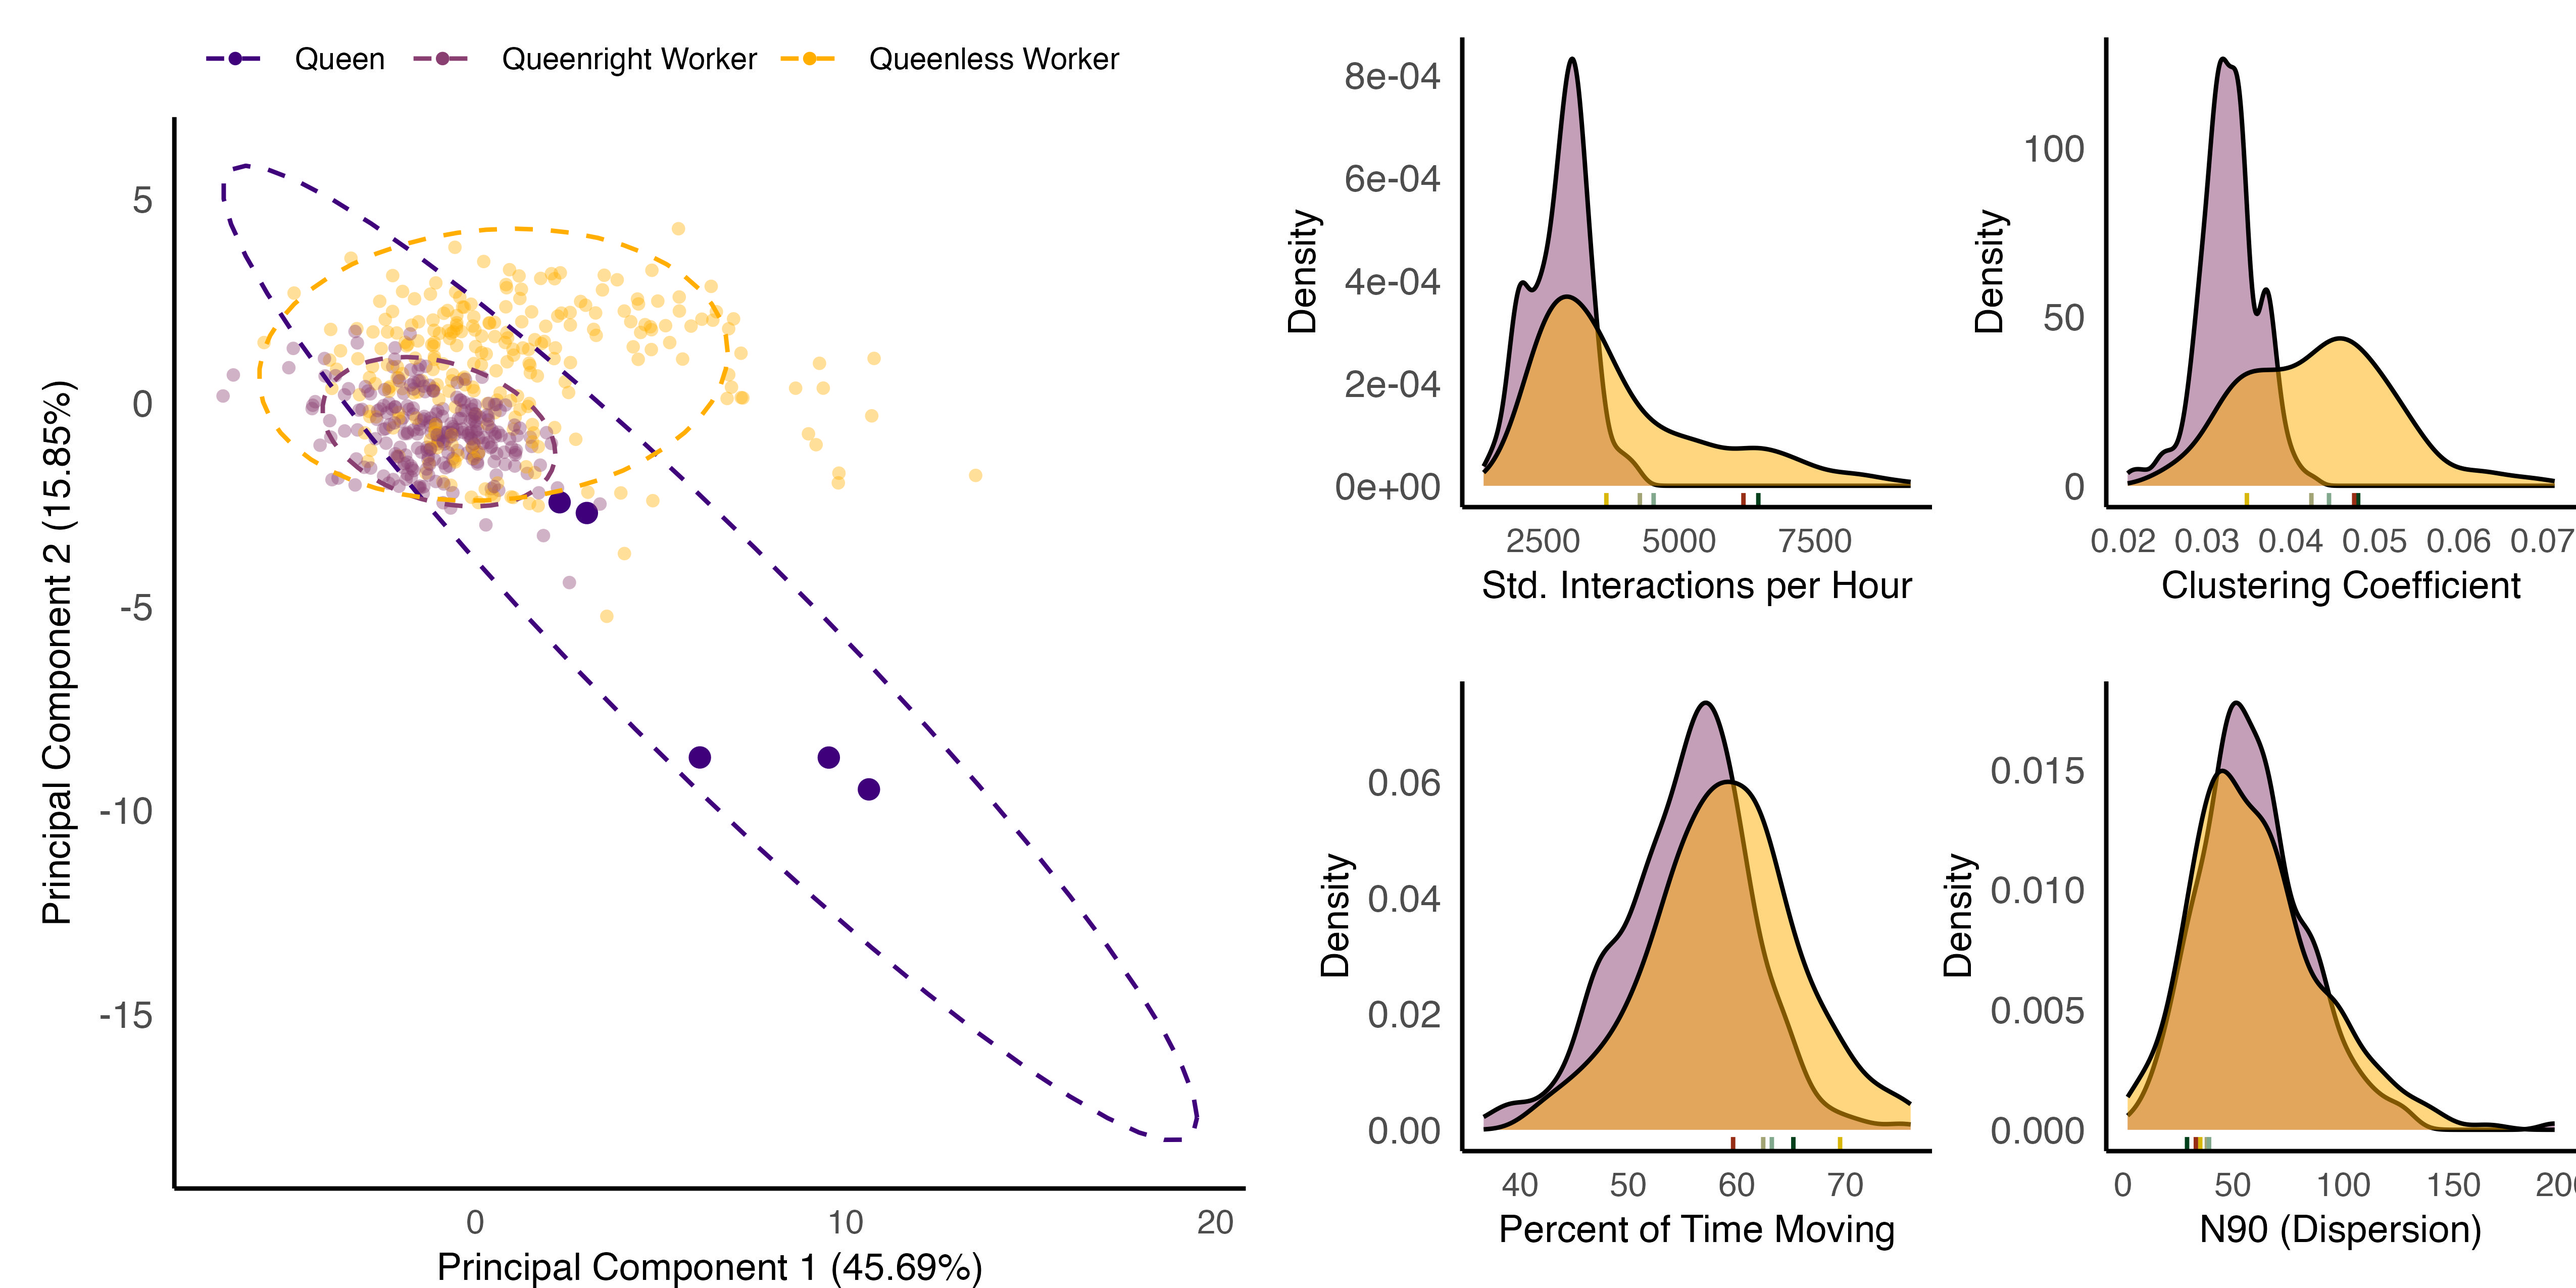
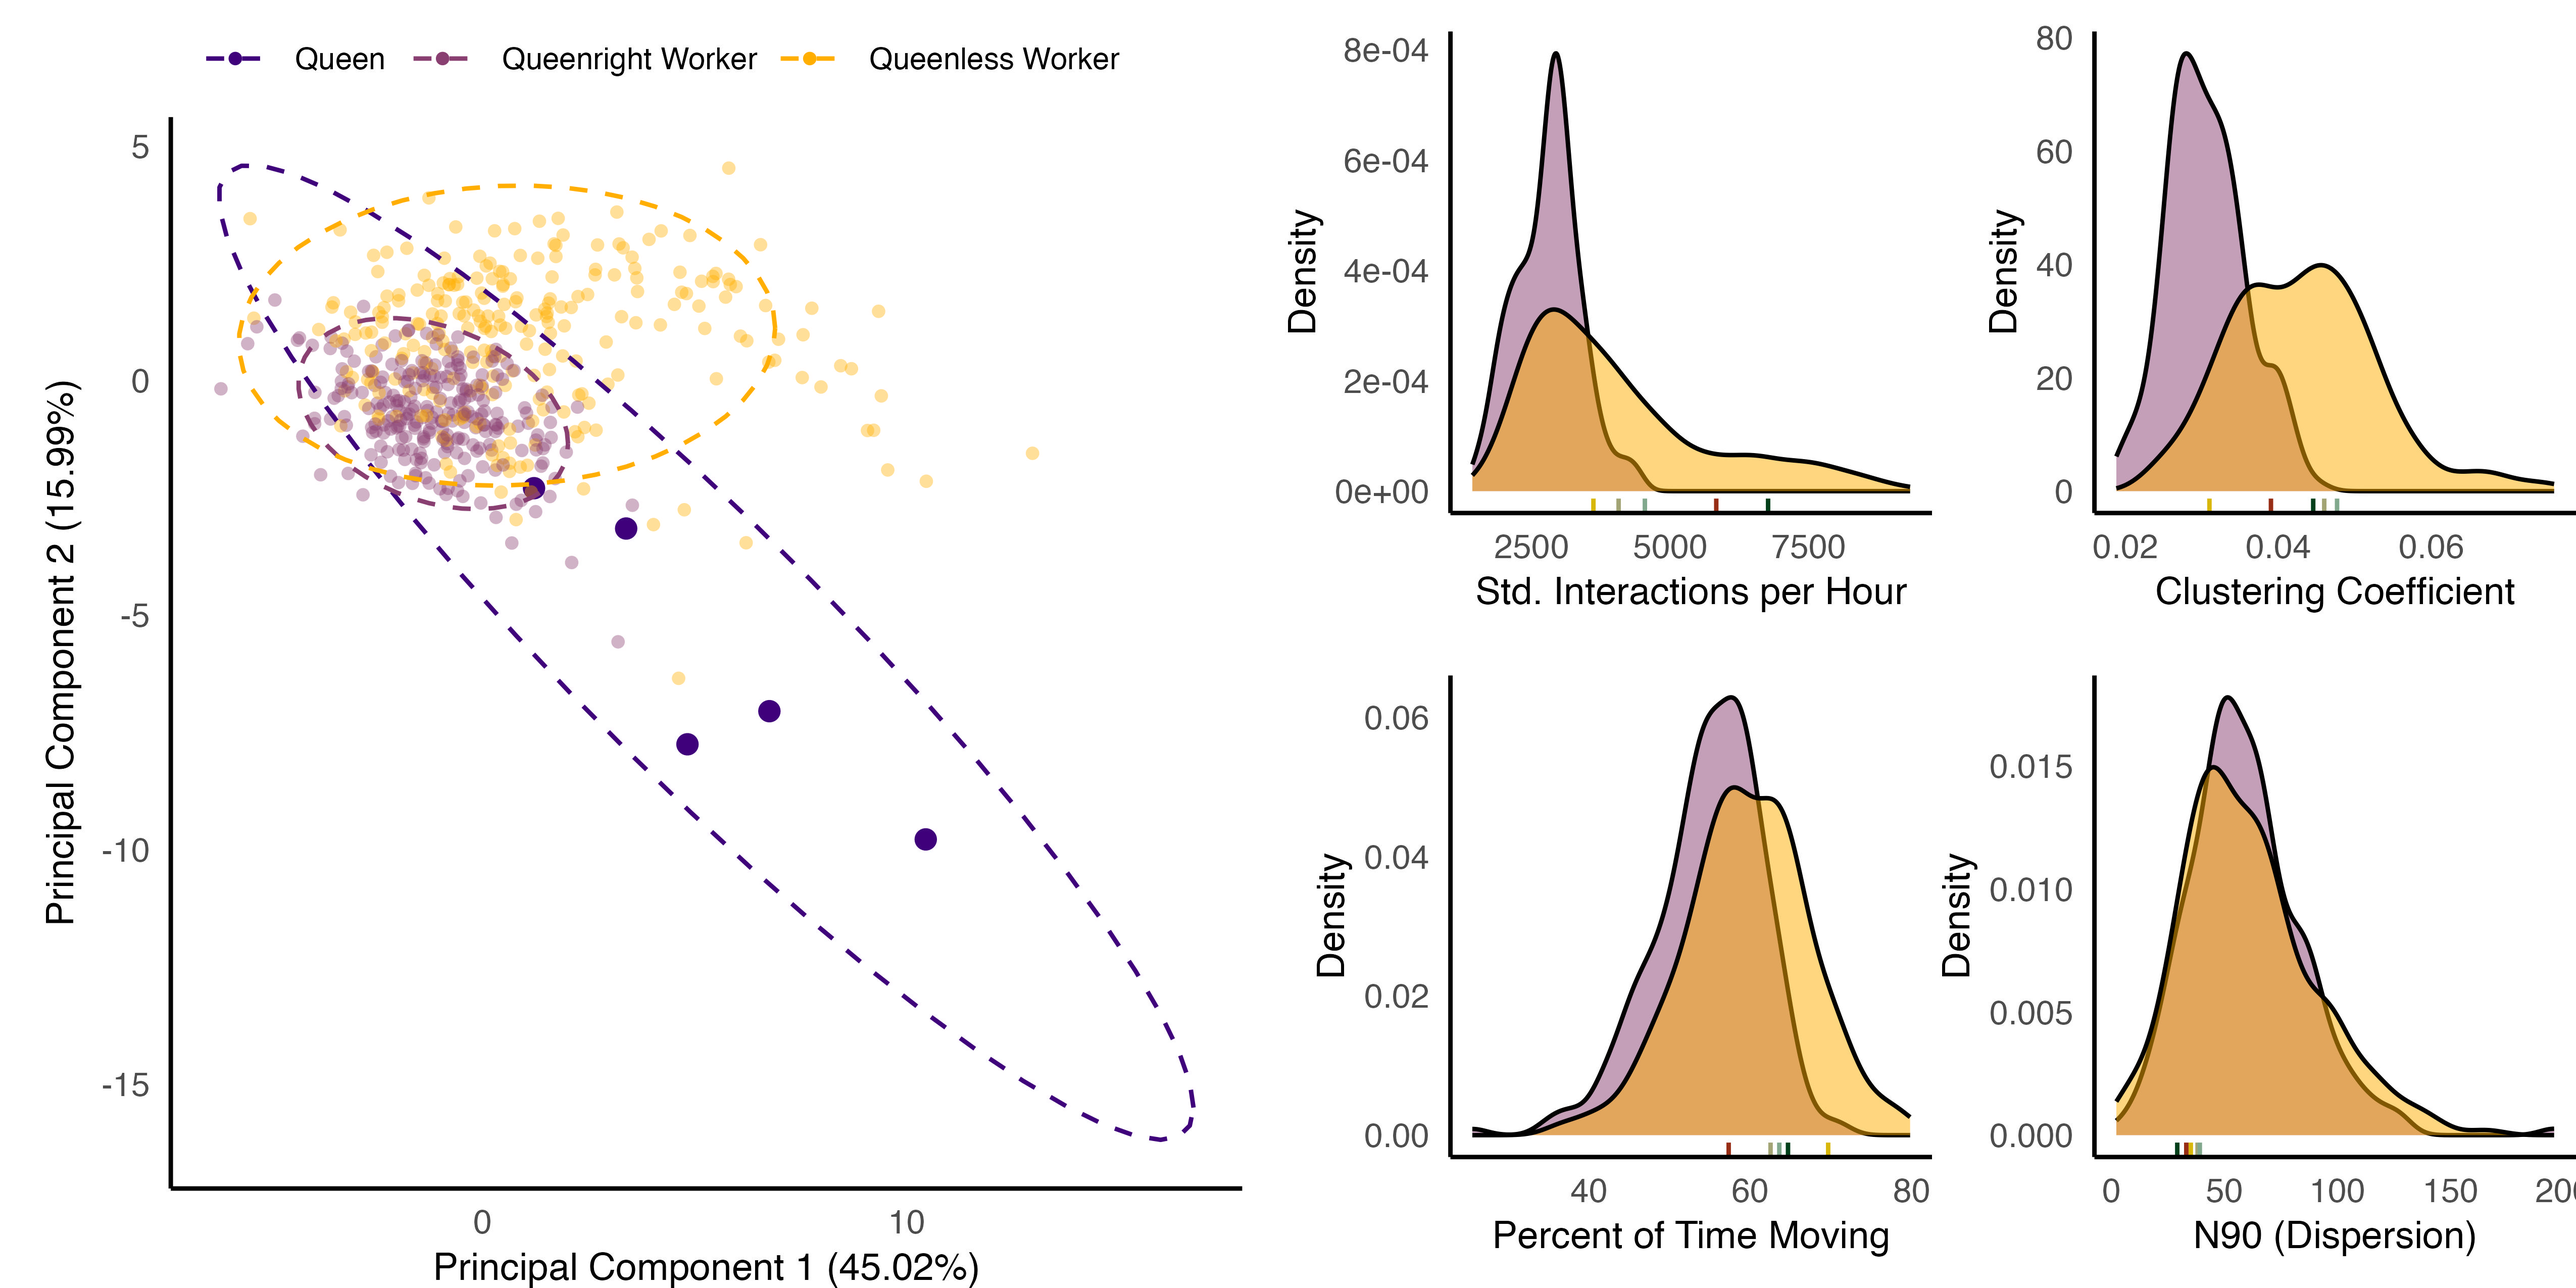
Cleaning up

diff --git a/scripts/manuscript/figure_5_hairballs.py b/scripts/manuscript/figure_5_hairballs.py
@@ -6,8 +6,8 @@ import numpy as np
 
 # Hardcoded values
 FILENAMES = [
-    "data/RooibosTea_QR_1216_1646_Time_AllDays.gml",
-    "data/RooibosTea_QL_1216_1646_Time_AllDays.gml",
+    "data/RooibosTea_QR_1216_1646_Time_DayOnly.gml",
+    "data/RooibosTea_QL_1216_1646_Time_DayOnly.gml",
 ]
 FOCAL_NODES = [
     ["ArUcoTag#52"],  # Replace with actual focal nodes for the first file
